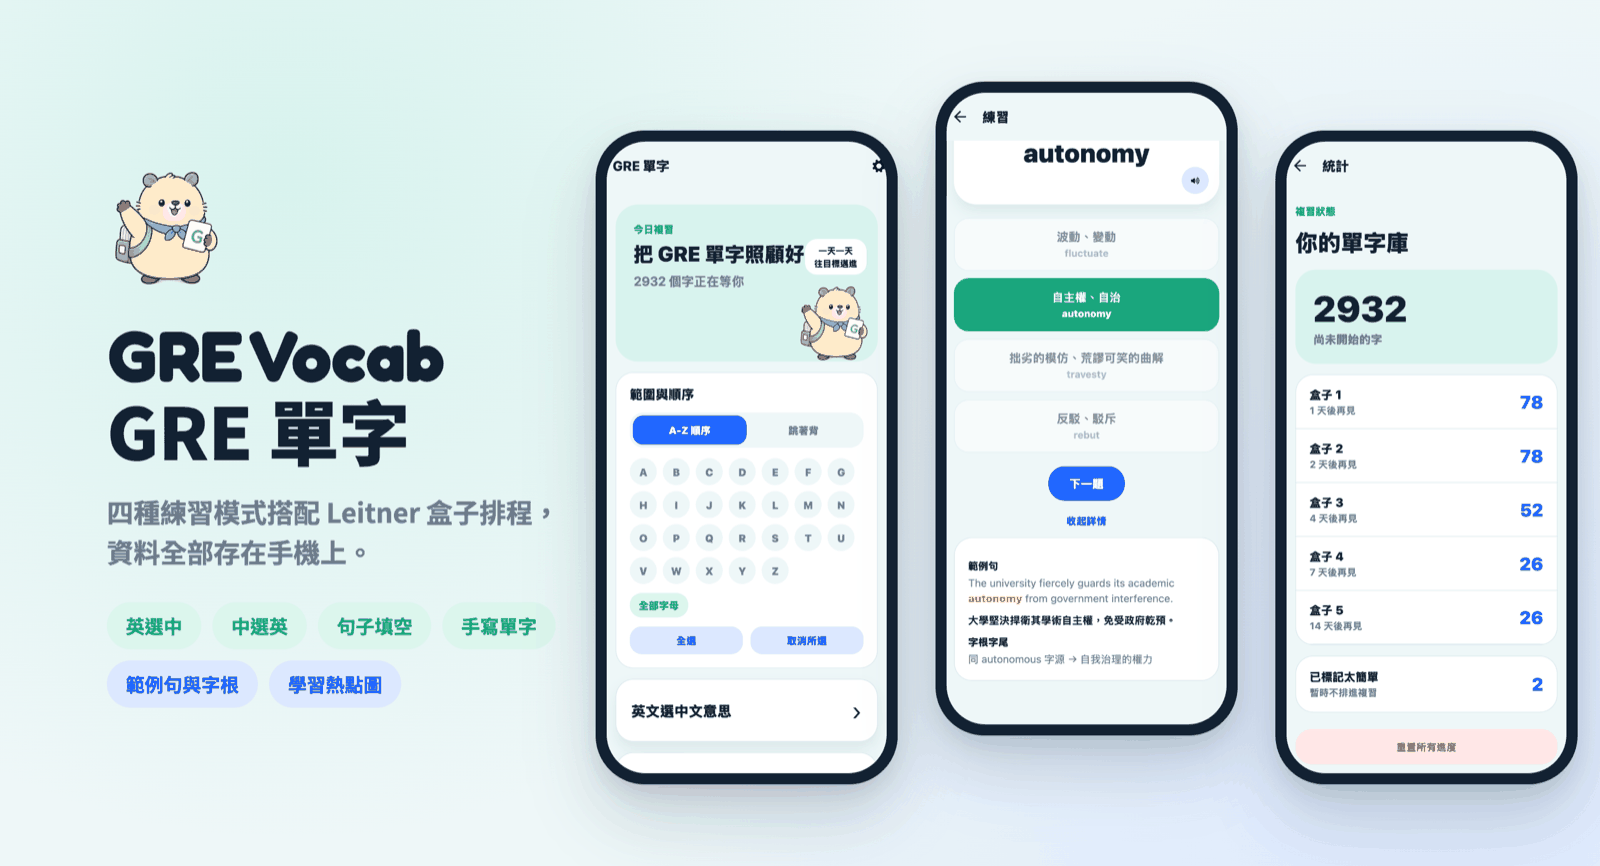
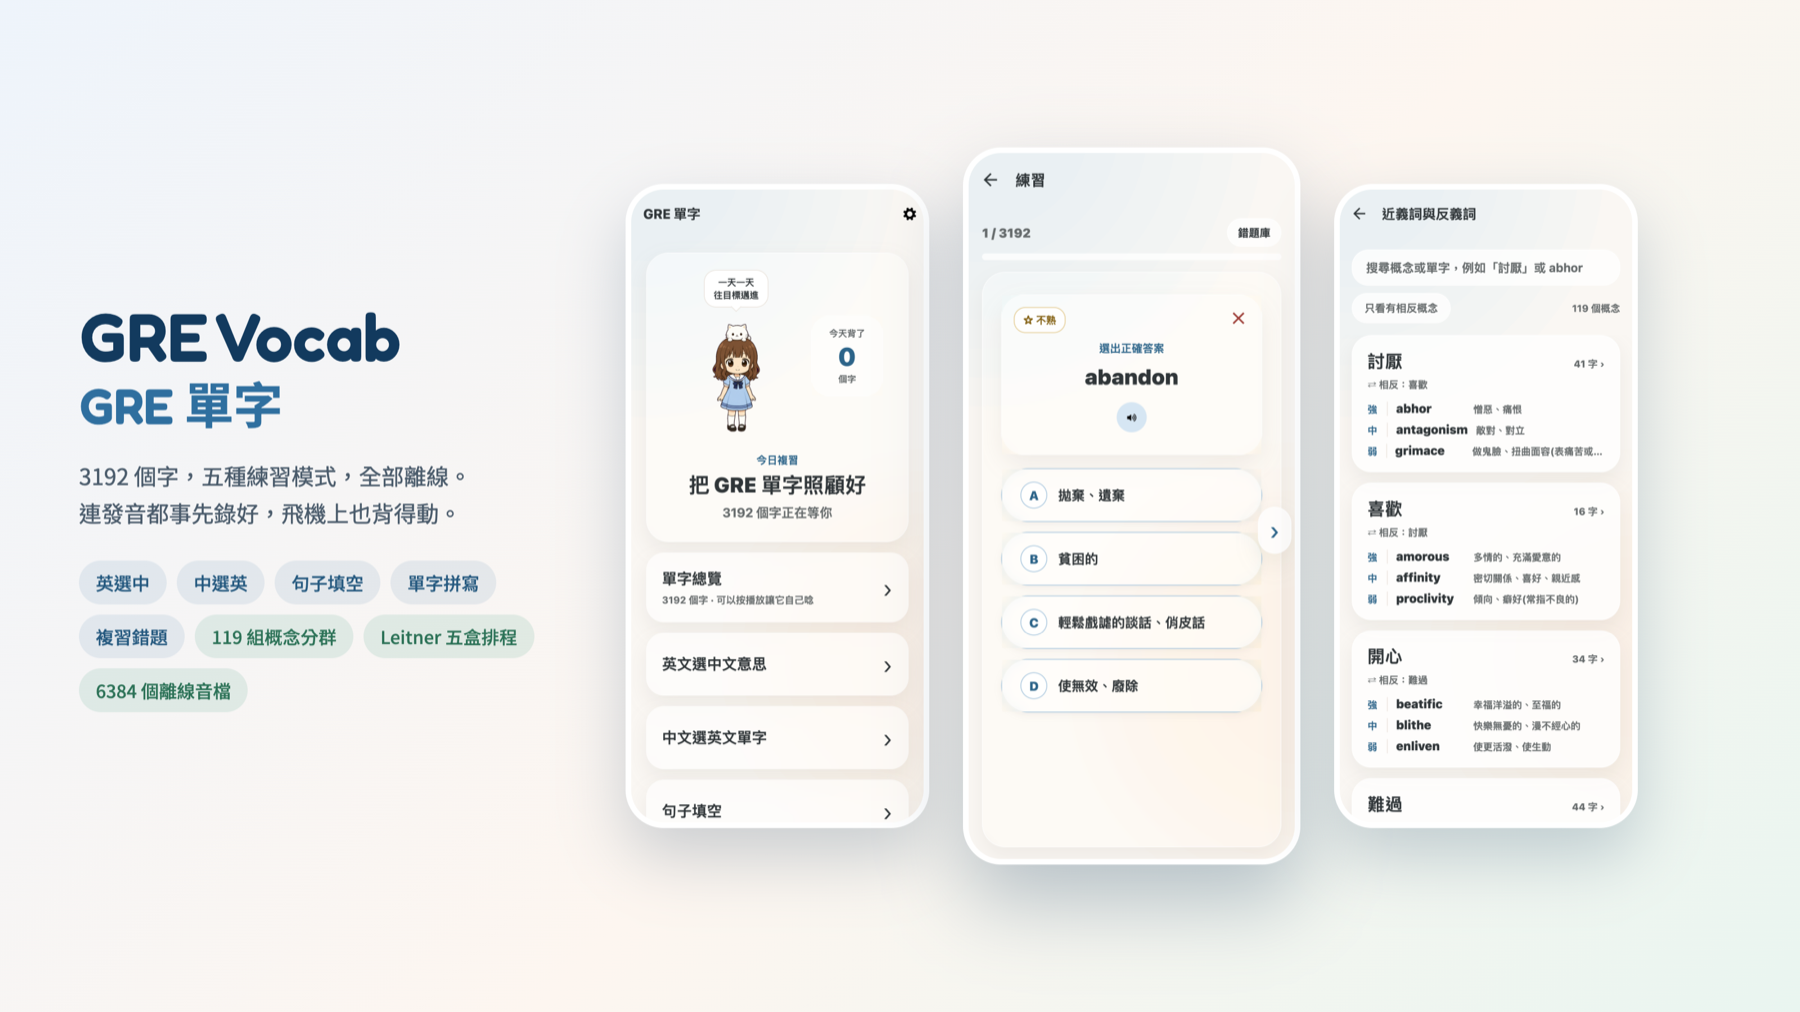
README 改寫成最新版：概念分群、離線語音、五種練習模式

diff --git a/README.md b/README.md
@@ -1,194 +1,75 @@
-# GRE 單字
+# GRE Vocab
 
-> A GRE vocabulary app built with Expo and React Native, using Leitner spaced repetition with all progress stored on the device.
+> An offline-first GRE vocabulary app: 3,192 words, five drill modes, and 6,384 pre-recorded audio files.
 
-準備 GRE 的人可以用這個 App 每天複習單字，題型有選擇題、句子填空和手寫拼字。答對的字會隔幾天才再出現，答錯的字隔天再考。內建 3192 個單字，不用登入，進度存在手機上。
+背 GRE 單字的 App。3192 個字、五種練習模式、119 組概念分群，全部離線。發音是事先錄好的音檔，不靠手機內建語音，飛機上也能背。
 
-[![Expo SDK 54](https://img.shields.io/badge/Expo-SDK%2054-000020?logo=expo&logoColor=white)](https://docs.expo.dev/versions/v54.0.0/)
-![React Native 0.81](https://img.shields.io/badge/React%20Native-0.81-61DAFB?logo=react&logoColor=black)
-![TypeScript 5.9](https://img.shields.io/badge/TypeScript-5.9-3178C6?logo=typescript&logoColor=white)
-![Platform](https://img.shields.io/badge/platform-iOS%20%7C%20Android-lightgrey)
-![Tests: Jest](https://img.shields.io/badge/tests-Jest-C21325?logo=jest&logoColor=white)
-![License: MIT](https://img.shields.io/badge/license-MIT-green)
+![GRE Vocab 主要畫面](docs/screenshots/hero.png)
 
-![GRE 單字 App 的首頁、答題詳情與統計畫面](docs/screenshots/hero.png)
+## 為什麼做成離線
+
+市面上的單字 App 多半在需要發音時才呼叫系統語音，結果是同一個字在不同手機唸得不一樣，沒網路時有些裝置根本不唸。這個 App 把 3192 個英文字和 3193 句中文解釋事先用 Edge 的類神經語音錄成 mp3 打包進去，發音固定、離線可用。
+
+進度也全部存在裝置上，不需要註冊、不上傳任何東西。
 
 ## 功能
 
-### 練習方式
+### 五種練習模式
 
-首頁可以先選字母範圍和出題順序，再從下面五個入口開始練習。
+英文選中文、中文選英文、句子填空、單字拼寫、複習錯題。每種都可以先選範圍再開始。
 
-| 入口 | 題目顯示 | 作答方式 |
-|---|---|---|
-| 英文選中文意思 | 英文單字 | 從四個中文意思選一個 |
-| 中文選英文單字 | 中文意思 | 從四個英文單字選一個 |
-| 句子填空 | 挖掉單字的英文範例句 | 從四個英文單字選一個 |
-| 手寫單字 | 中文意思 | 自己拼出英文單字 |
-| 複習錯題 | 中文意思，只出答錯後還沒再答對的字 | 從四個英文單字選一個 |
+<img src="docs/screenshots/03-setup.png" width="260"> <img src="docs/screenshots/04-quiz.png" width="260">
 
-選擇題的另外三個選項是從單字庫裡隨機抽其他字，所以每個選項都是真的單字或真的中文意思。答完之後，每個選項底下會標出它對應的單字或意思，選錯的那個選項到底是什麼字也看得到（預設開啟，可以在設定頁關掉）。
+練習前可以指定順序（A 到 Z 或隨機）、題數（10、20、30 或全部）、字母範圍。答完會展開例句與字根說明。右上角的叉叉可以把太簡單的字丟進回收桶，之後不再出現。
 
-<p align="center">
-  <img src="docs/screenshots/choice.png" width="240" alt="英文選中文意思，答對的選項變成綠色">
-  <img src="docs/screenshots/cloze.png" width="240" alt="句子填空，選錯的選項變紅色，正解變綠色">
-  <img src="docs/screenshots/typing.png" width="240" alt="手寫單字，送出後顯示正解">
-</p>
+### 概念分群：照意思找字，不是照字母
 
-### 答完看範例句、翻譯與字根
+119 組中文概念把 3192 個字重新分群，其中 78 組有相反概念。每個字標上「強、中、弱」三級強度，例如「討厭」這組裡 abhor 是強、antagonism 是中、grimace 是弱。
 
-答題後按「查看詳情」，會展開英文範例句（題目單字用橘色標出）、範例句的中文翻譯，以及字根字尾的拆解。題目卡右下角的喇叭按鈕用 expo-speech（呼叫手機內建的文字轉語音）念出單字，App 裡不需要放錄音檔。設定頁可以改成答完就自動展開詳情。
+<img src="docs/screenshots/05-concepts.png" width="260">
 
-### Leitner 盒子排程
+這是照字母背最缺的一塊：知道 abhor 和 detest 都是討厭，但不知道哪個更重，寫作時就用錯。分群和強度是事先用 LLM 批次跑出來、再存成 JSON 打包進 App，執行時不呼叫任何 API。
 
-排程用的是 Leitner system（萊特納卡片盒，依答對次數拉長複習間隔的方法）。每個字都放在 1 到 5 號盒子裡，盒子號碼越大，隔越久才會再考。
+### Leitner 五盒排程
 
-| 盒子 | 移進這個盒子後，隔幾天再出現 |
-|---|---|
-| 1 | 1 天 |
-| 2 | 2 天 |
-| 3 | 4 天 |
-| 4 | 7 天 |
-| 5 | 14 天 |
+答對往後一盒、答錯回第一盒，五個盒子的複習間隔是 1、2、4、7、14 天。統計頁看得到每盒各有幾個字。
 
-舉例來說，今天第一次練到 `abate` 並且答對，它會從盒子 1 升到盒子 2，兩天後才會回到待複習清單。之後每答對一次就往後移一盒，到了盒子 5 就固定 14 天出現一次。只要答錯一次，不管原本在第幾盒都會掉回盒子 1，隔天再考。
+<img src="docs/screenshots/06-stats.png" width="260">
 
-五種練習入口共用同一份進度，同一個字換個題型考，盒子也不會重算。「統計」頁會列出每一盒目前有幾個字，點進盒子可以把單字手動移到別的盒子，或清掉這個字的進度。
+### 單字總覽
 
-### 其他功能
+3192 個字一次列出，可以勾選要聽的字循環播放，調語速（0.75、1、1.25 倍）、重複次數、要不要唸例句和中文。右側有可以拖的 A 到 Z 索引軸。
 
-- **範圍與順序**：只練某幾個字母開頭的字，順序可選 A 到 Z 或打亂。
-- **太簡單的字**：題目卡右上角的「太簡單」會把這個字移進回收桶，之後不再排進複習；到回收桶按「恢復」就能放回來。
-- **學習熱點圖**：首頁用類似 GitHub 貢獻圖的格子畫出最近 16 週每天答了幾題，答得越多顏色越深。
+<img src="docs/screenshots/02-all-words.png" width="260">
 
-<p align="center">
-  <img src="docs/screenshots/home-heatmap.png" width="240" alt="首頁下半部的練習入口與學習熱點圖">
-</p>
+## 技術
 
-## 單字資料
+| 項目 | 選擇 |
+| --- | --- |
+| App | Expo SDK 54 + React Native + TypeScript |
+| 導覽 | React Navigation，11 個畫面 |
+| 儲存 | AsyncStorage，六個鍵（進度、熱點圖、排除清單、設定、錯題、上次練習設定） |
+| 語音 | 事先用 Edge neural voice 產生 mp3（`scripts/tts-build.js`），對照表在 `src/lib/recordings.ts` |
+| 資料 | `assets/words.json`（3192 字）、`assets/concepts.json`（119 組概念） |
+| 測試 | Jest，涵蓋概念資料一致性與畫面渲染 |
 
-單字庫放在 `assets/words.json`，打包進 App 裡，沒有網路也能練。每個字有這些欄位：
+另有一套 `backend/`（Express + SQLite + JWT），是為了之後做雲端同步先寫的，目前 App 沒有接上去，跑起來也不影響 App。
 
-| 欄位 | 內容 | 範例 |
-|---|---|---|
-| `word` | 英文單字 | `abandon` |
-| `pos` | 詞性 | `v.` |
-| `meaning` | 中文意思 | 拋棄、遺棄 |
-| `example` | 英文範例句 | Fearing the ship would sink, the crew was ordered to abandon it immediately. |
-| `exampleZh` | 範例句的中文翻譯 | 由於擔心船會沉沒，船員被命令立即棄船。 |
-| `roots` | 字根字尾說明 | a- (加強/離開) + bandon (源自古法文 bandon，控制權) → 放棄控制、棄之不顧 |
-
-這份資料在開發階段用 `scripts/` 裡的腳本一次產生，App 執行時不會再上網抓資料。
-
-1. `parse-wordlist.js` 從 GRE 字彙講義 PDF 轉出的純文字裡抓出單字候選。
-2. 分批用 AI 補上詞性、範例句和字根說明，每批存成 `data/words/*.json`。
-3. `validate-words.js` 檢查必填欄位、單字格式、重複的字，以及範例句裡有沒有出現這個字。
-4. `merge-batches.js` 合併所有批次、再驗證一次，輸出 `assets/words.json`。
-5. `fill-example-zh.js` 用 Google 翻譯補上範例句的中文翻譯。
-
-範例句與字根說明經過 AI 生成或改寫，中文翻譯是機器翻譯，內容可能有錯。
-
-## 技術架構
-
-| 部分 | 使用的技術 | 用途 |
-|---|---|---|
-| App 框架 | Expo SDK 54、React Native 0.81、React 19、TypeScript | iOS 與 Android 共用一份程式碼 |
-| 畫面切換 | React Navigation | 在首頁、練習、統計、盒子、回收桶、設定六個畫面之間切換 |
-| 本機儲存 | AsyncStorage（App 在手機上存小筆資料的地方） | 單字進度、熱點圖、回收桶、錯題、設定 |
-| 發音 | expo-speech | 念出英文單字 |
-| 大頭貼 | expo-image-picker | 設定頁從相簿選照片 |
-| 測試 | Jest（jest-expo） | 排程計算、出題、練習佇列、儲存讀寫 |
-| 後端（還沒接上 App） | Node.js 內建 `http` 模組、SQLite（整個資料庫就是一個檔案） | 帳號、進度同步、單字管理 API |
-
-```mermaid
-flowchart LR
-  subgraph App["Expo App"]
-    Screens["畫面<br/>Home / Practice / Stats<br/>BoxWords / Excluded / Settings"]
-    Lib["src/lib<br/>leitner / practiceQueue / quiz"]
-    Words[("assets/words.json")]
-    Storage[("AsyncStorage<br/>進度、熱點圖、回收桶")]
-    Screens --> Lib
-    Screens --> Words
-    Screens --> Storage
-  end
-  subgraph Backend["backend/（還沒接上 App）"]
-    API["Node.js HTTP API"]
-    DB[("SQLite")]
-    API --> DB
-  end
-  Words -.->|"npm run backend:seed"| DB
-```
-
-`src/lib/` 裡是跟畫面無關的邏輯：`leitner.ts` 算下一次複習日期，`practiceQueue.ts` 依範圍、回收桶和錯題清單排出今天要考的字，`quiz.ts` 產生選擇題選項。這幾個檔案都有對應的 Jest 測試。
-
-`backend/` 是為了之後上架準備的 API，內容包含帳號註冊與登入、個人資料與設定、每個使用者的單字進度，還有一個 `/admin` 單字管理頁。密碼會先混入 salt（每個帳號各自產生的隨機字串），再用 PBKDF2（把密碼反覆雜湊很多次，讓暴力破解變慢）處理後儲存，登入後發的 token（代表使用者身分的一串憑證）在資料庫裡也只存雜湊值。後端直接呼叫系統的 `sqlite3` 指令存取資料庫，沒有另外裝資料庫套件。目前 App 只讀寫手機上的資料，還沒有打這組 API；設定頁的帳號信箱、密碼、Google 綁定和通知開關也只有畫面，還沒有接上實際功能。完整 API 清單在 [backend/README.md](backend/README.md)，正式上線改用 Neon Postgres（雲端託管的 PostgreSQL 資料庫）的規劃在 [docs/neon-postgres-plan.md](docs/neon-postgres-plan.md)。
-
-## 本機跑起來
-
-需要 Node.js 20.19.4 以上。
+## 跑起來
 
 ```bash
-git clone https://github.com/hsuiris/gre-vocab.git
-cd gre-vocab
 npm install
-npx expo start
+npm start        # Expo 開發伺服器
+npm run ios      # iOS 模擬器
+npm test         # 測試
 ```
 
-終端機出現 QR code 之後，用手機上的 Expo Go（Expo 官方的開發測試用 App）掃描就能打開，Expo Go 的版本要支援 SDK 54。有裝模擬器的話，在終端機按 `i` 開 iOS 模擬器、按 `a` 開 Android 模擬器。
+網頁版可以用 `npx expo export --platform web` 匯出，但會把 1.6 GB 的音檔一起打包，建議只在需要截圖時用。
 
-想在瀏覽器裡看，要先補裝網頁版需要的套件：
+## 資料來源
 
-```bash
-npx expo install react-dom react-native-web @expo/metro-runtime
-npm run web
-```
-
-單元測試用下面這行指令跑。
-
-```bash
-npm test
-```
-
-### 後端（選用）
-
-後端會呼叫系統的 `sqlite3` 指令，先用 `sqlite3 --version` 確認電腦裡有裝。
-
-```bash
-npm run backend:migrate   # 建立資料表
-npm run backend:seed      # 把 assets/words.json 匯入資料庫
-npm run backend:start     # 啟動 API，網址是 http://localhost:3001
-npm run backend:test      # 用暫存資料庫跑一輪 API 測試
-```
-
-資料庫預設是 `data/app.db`，要換位置就設定環境變數 `DB_PATH`。管理員帳號只能從指令列建立，公開的註冊 API 一律建立一般使用者：
-
-```bash
-npm run backend:create-admin -- 你的信箱 你的密碼 顯示名稱
-```
-
-建好之後到 `http://localhost:3001/admin` 管理單字。
-
-## 專案結構
-
-```text
-gre-vocab/
-├── App.tsx               # 進入點，掛上 RootNavigator
-├── src/
-│   ├── screens/          # 首頁、練習、統計、盒子、回收桶、設定
-│   ├── components/       # 題目卡、熱點圖、首頁吉祥物
-│   ├── lib/              # Leitner 排程、練習佇列、出題、AsyncStorage 讀寫
-│   ├── navigation/       # React Navigation 設定
-│   ├── data/words.ts     # 載入單字庫並定義型別
-│   └── theme.ts          # 顏色與陰影
-├── assets/words.json     # 單字庫
-├── __tests__/            # App 的 Jest 測試
-├── scripts/              # 產生與驗證單字資料的腳本
-├── data/                 # 單字批次檔、中間產物、SQLite 資料庫
-├── backend/              # Node.js API（還沒接上 App）
-├── migrations/           # SQLite 資料表定義
-└── docs/                 # 設計規格、實作計畫、Postgres 遷移規劃、截圖
-```
+單字清單整理自公開的 GRE 字表。例句、字根說明與概念分群是自己產生的，不是抄自任何一本書。
 
 ## 授權
 
-MIT，條文見 [LICENSE](LICENSE)。
+MIT
